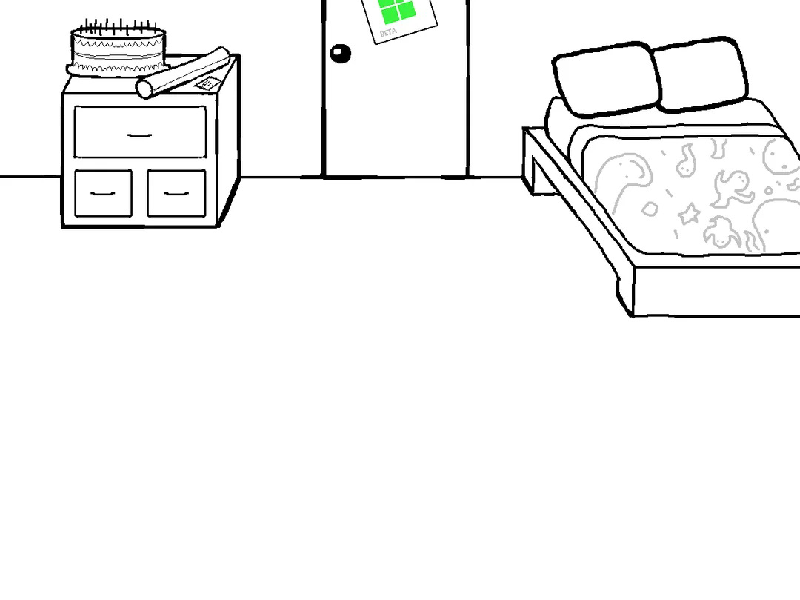
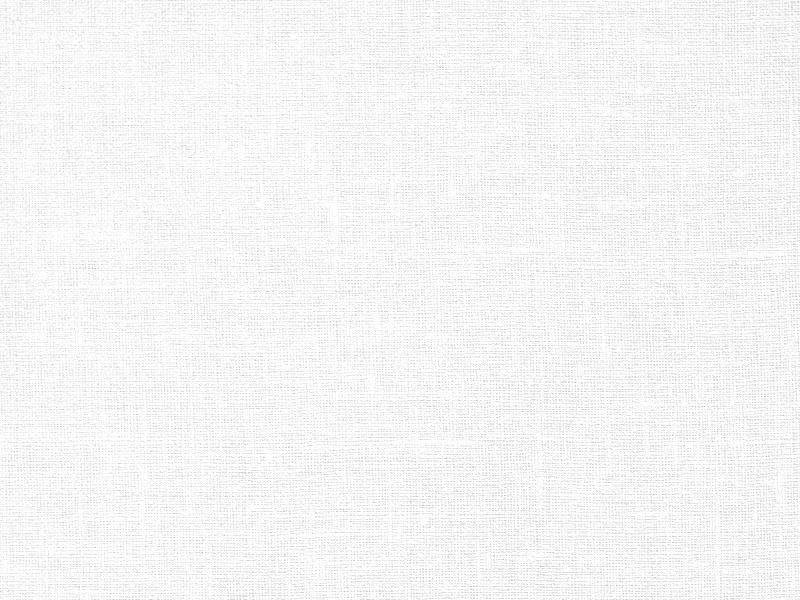
release

diff --git a/src/main/java/com/github/vegedra/core/UI.java b/src/main/java/com/github/vegedra/core/UI.java
@@ -151,6 +151,7 @@ public class UI {
         JPanel clickerPanel = new JPanel();
         clickerPanel.setBounds(55, 190, 250, 255);
         //clickerPanel.setBackground(Color.white);
+        clickerPanel.setOpaque(false);
         clickerPanel.setBorder(null);
         gamePanel.add(clickerPanel);
         // Imagem do clicker
@@ -158,6 +159,8 @@ public class UI {
         JButton clickerButton = new JButton();
         //clickerButton.setBackground(Color.white);
         clickerButton.setFocusPainted(false);
+        clickerButton.setOpaque(false);
+        clickerButton.setContentAreaFilled(false);
         clickerButton.setBorder(null);
         clickerButton.setIcon(circle);
         clickerButton.addActionListener(cHandler);
@@ -168,6 +171,7 @@ public class UI {
         JPanel counterPanel = new JPanel();
         counterPanel.setBounds(30, 40, 320, 150);
         //counterPanel.setBackground(Color.white);
+        counterPanel.setOpaque(false);  // Transparente
         counterPanel.setLayout(new BoxLayout(counterPanel, BoxLayout.Y_AXIS));
         gamePanel.add(counterPanel);
 
@@ -229,6 +233,8 @@ public class UI {
         JButton pauseButton = new JButton();
         pauseButton.setBounds(740, 10, 50, 50);
         pauseButton.setFocusPainted(false);
+        pauseButton.setOpaque(false);
+        pauseButton.setContentAreaFilled(false);
         pauseButton.setBorder(null);
         pauseButton.setActionCommand("pause");
         pauseButton.addActionListener(cHandler);
@@ -248,6 +254,7 @@ public class UI {
         cardPanel.setLayout(new GridLayout(1, 9, 5, 0));    // 1 linha, 9 colunas, espaçamento horizontal 5px
         //cardPanel.setBackground(Color.white);
         cardPanel.setBorder(BorderFactory.createTitledBorder("Cartas Ativas"));
+        cardPanel.setOpaque(false);
         for (int i = 0; i < 9; i++) {
             cardSlots[i] = new JPanel();
             cardSlots[i].setBackground(Color.white);
@@ -282,7 +289,8 @@ public class UI {
         titlePanel.setLayout(null);
         //titlePanel.setBackground(Color.white);
         // Titulo
-        JLabel titleLabel = new JLabel("Rigged Luck", SwingConstants.CENTER);
+        //JLabel titleLabel = new JLabel("Rigged Luck", SwingConstants.CENTER);
+        JLabel titleLabel = new JLabel();
         titleLabel.setBounds(250, 150, 300, 50);
         titleLabel.setFont(font3);
         titleLabel.setForeground(Color.black);

diff --git a/src/main/java/com/github/vegedra/core/CardUI.java b/src/main/java/com/github/vegedra/core/CardUI.java
@@ -111,7 +111,7 @@ public class CardUI {
                         SwingConstants.CENTER
                 );
                 usedLabel.setFont(new Font("Cambria", Font.PLAIN, 10));
-                usedLabel.setToolTipText(tooltip); // ← tooltip no label
+                usedLabel.setToolTipText(tooltip); // tooltip no label
                 ui.cardSlots[index].add(usedLabel, BorderLayout.CENTER);
 
             // Carta passiva
